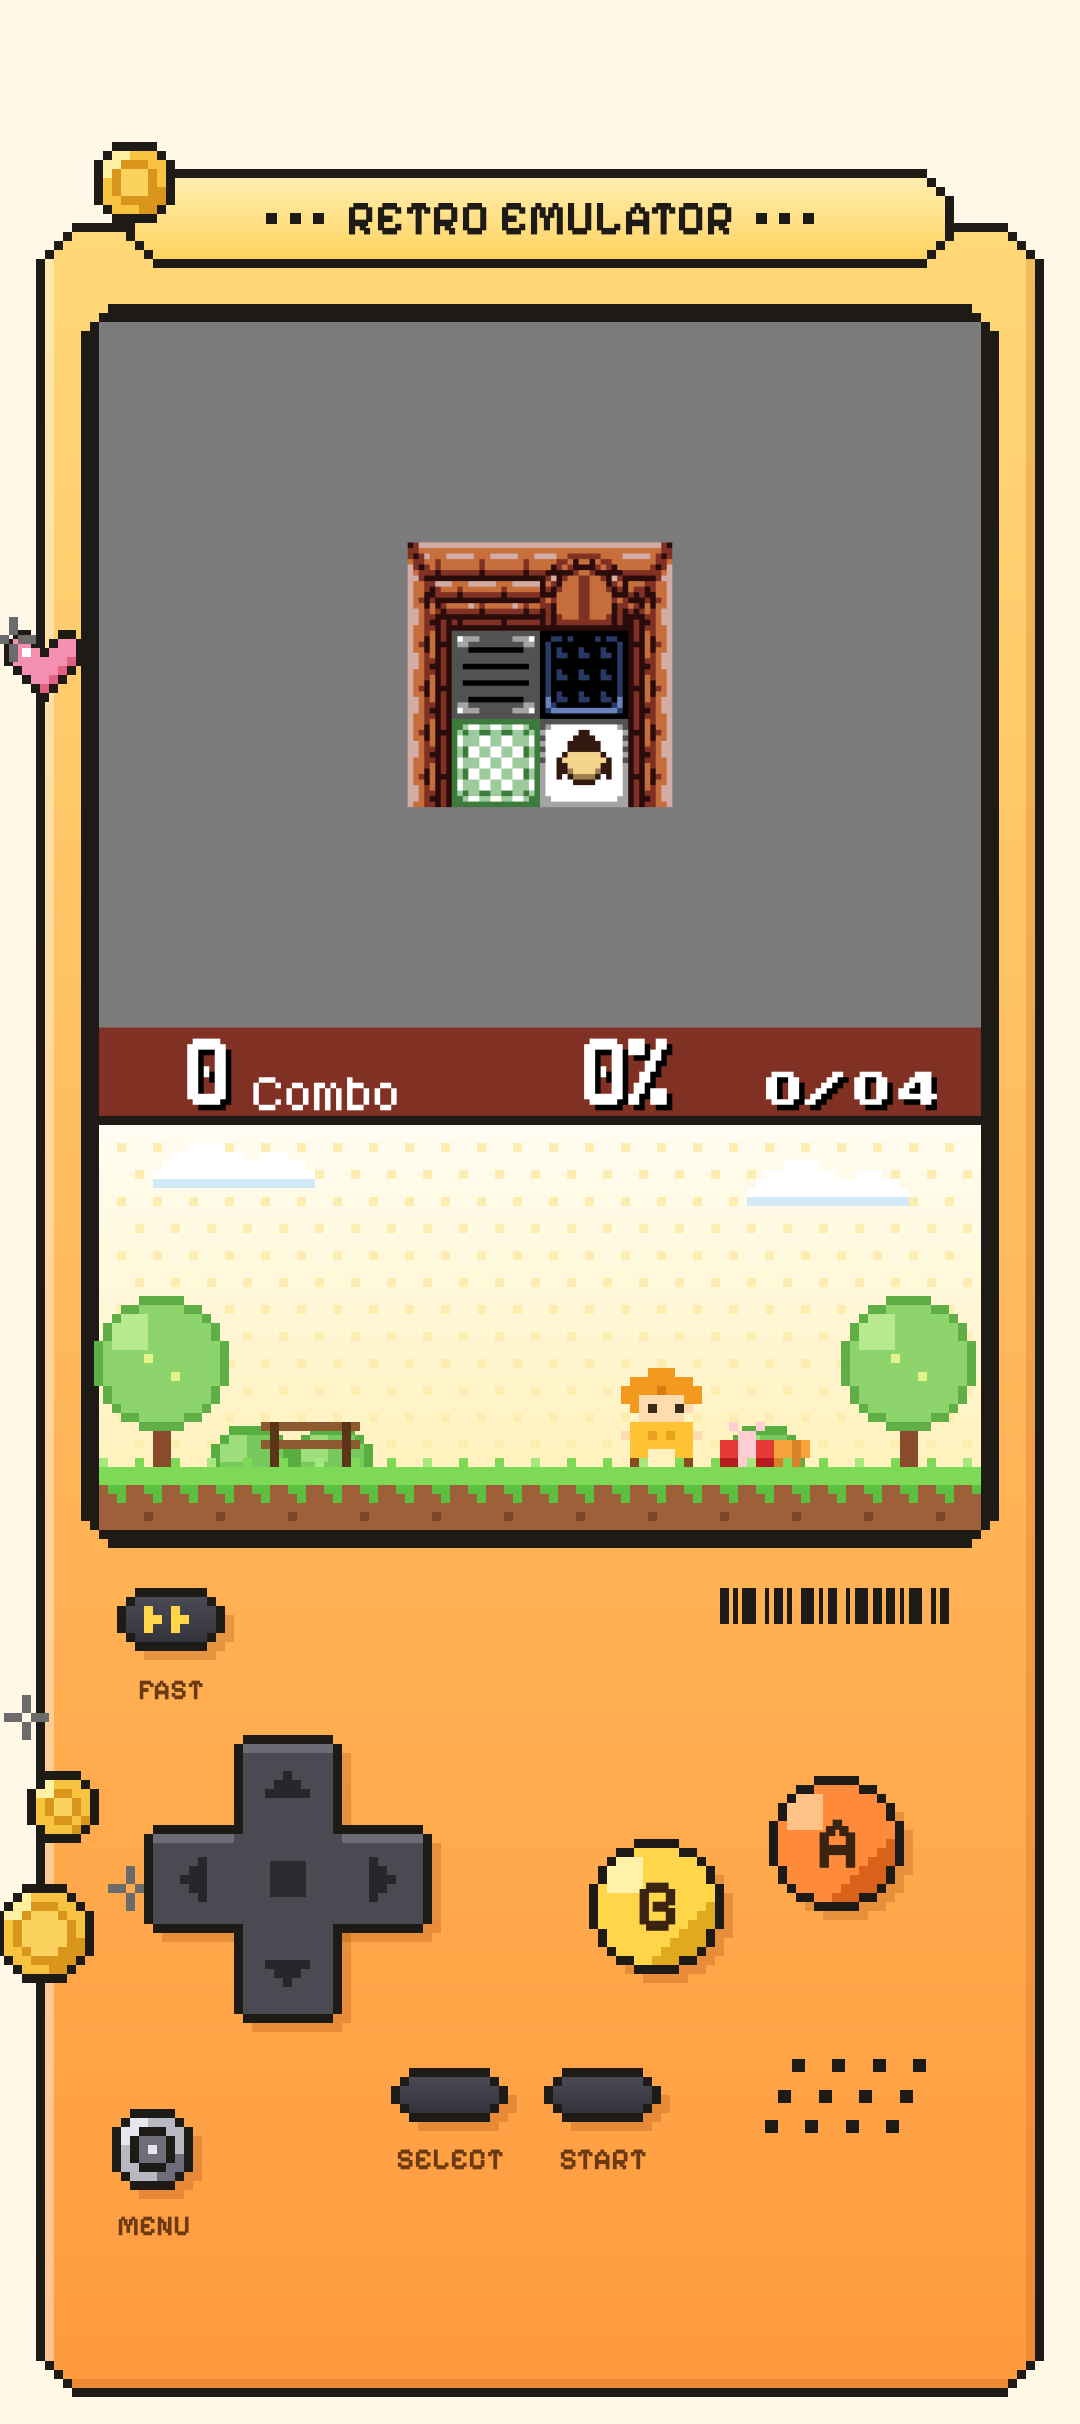
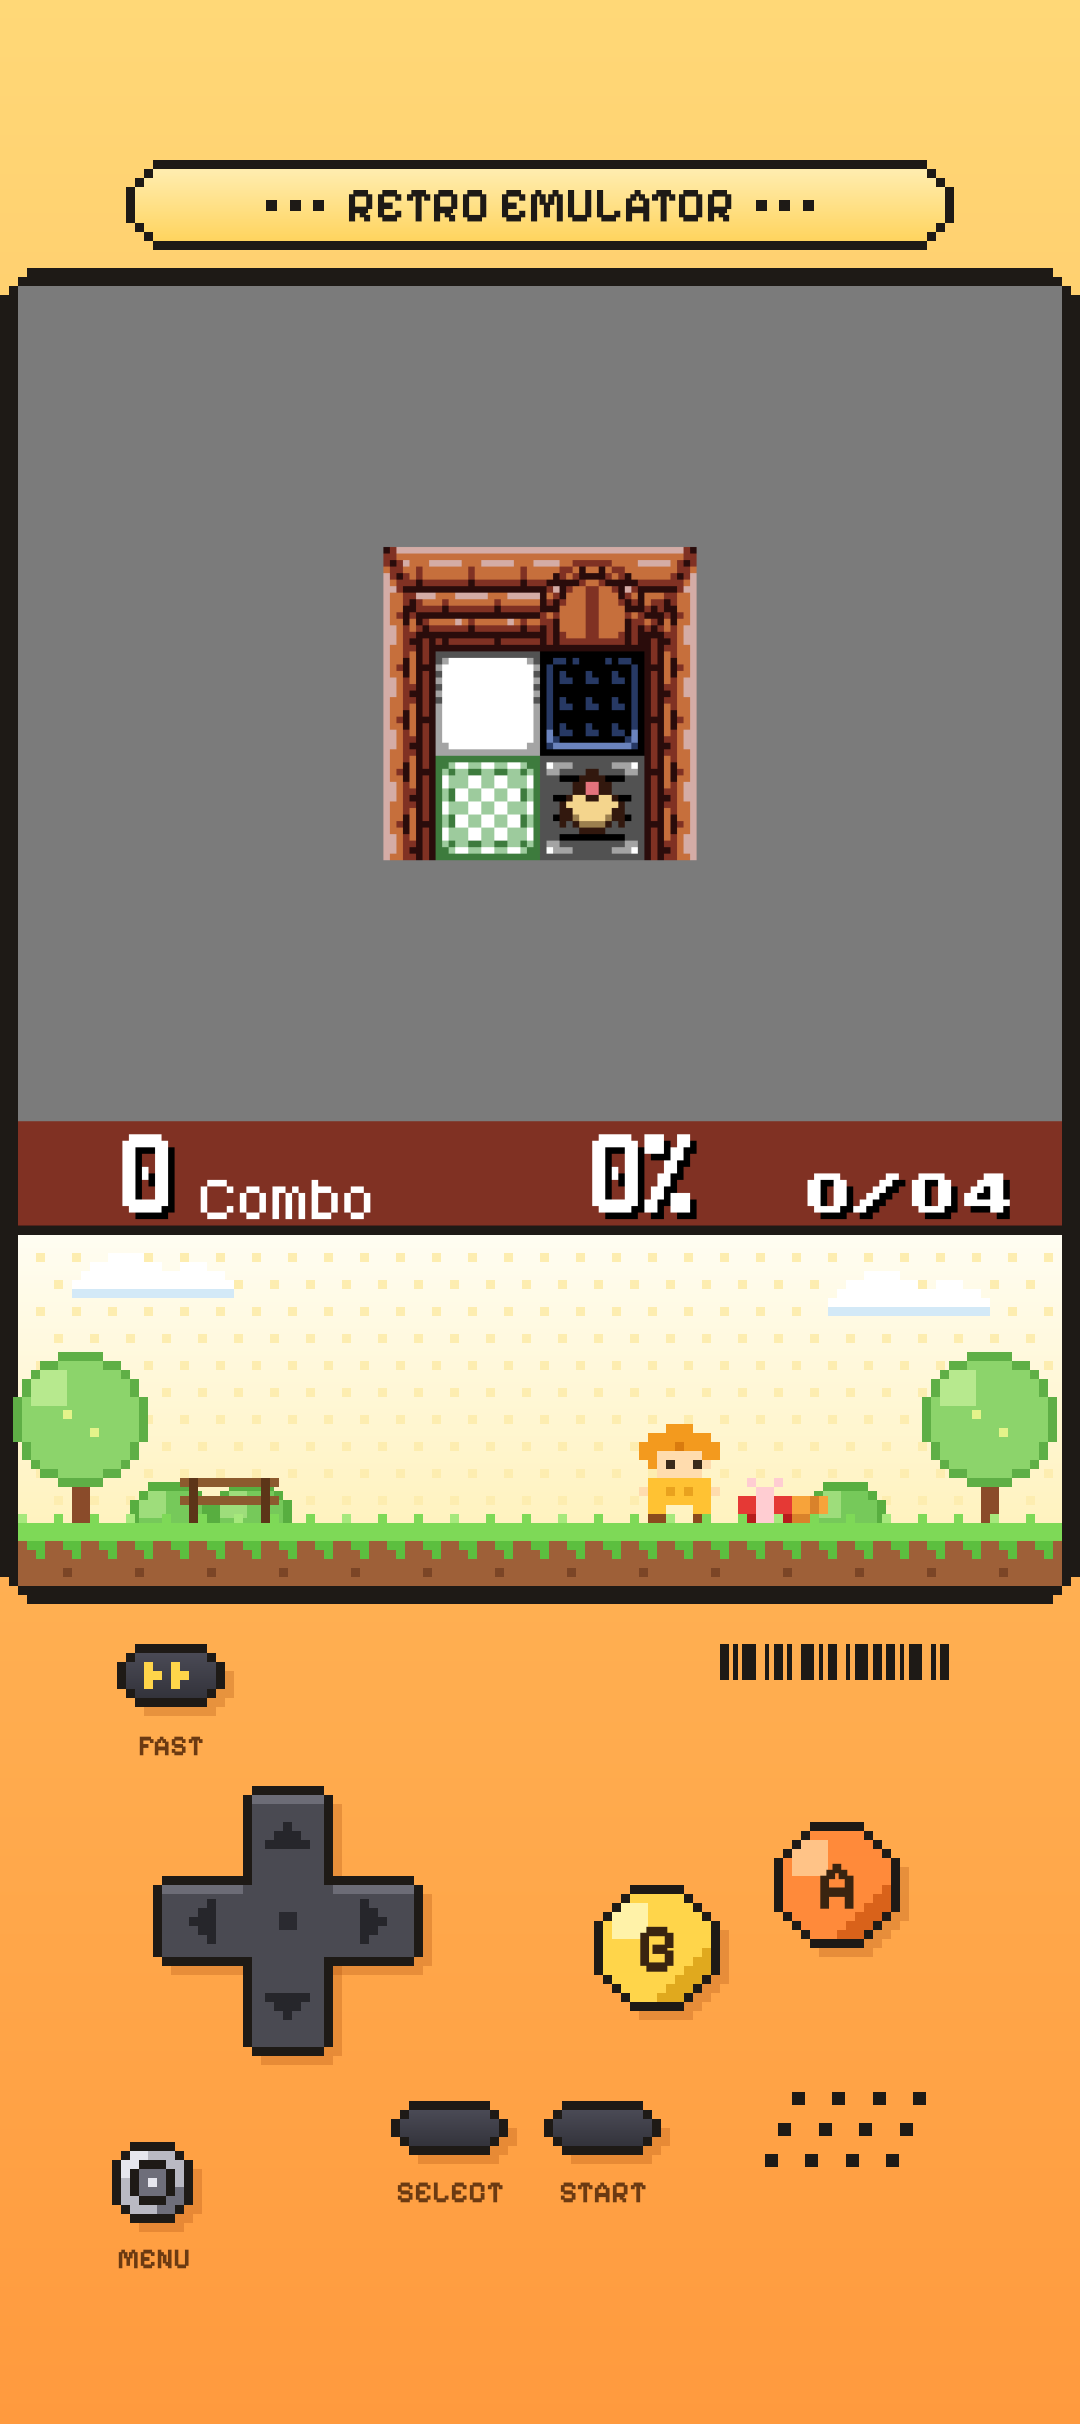
Full-screen handheld layout with a bigger picture (1.3.1)
The handheld body now fills the whole screen. The screen frame spans the
full width in portrait and the full height in landscape, so games are
drawn about 18% larger in portrait and up to 45% larger in landscape.
The coin, heart and sparkle decorations are removed, and the README
screenshots show the new layout.

diff --git a/app/src/main/java/com/retroemulator/gb/ui/ConsoleLayout.kt b/app/src/main/java/com/retroemulator/gb/ui/ConsoleLayout.kt
@@ -10,8 +10,10 @@ import kotlin.math.min
 /**
  * Geometry of the on-screen handheld, shared by the skin, the game view and the controls.
  *
- * Everything is designed on a grid of "art pixels" of [u] screen pixels: portrait layouts are 120
- * units wide, landscape layouts 100 units tall. [u] is an integer so the pixel art stays crisp.
+ * The handheld's body fills the whole screen, and the screen frame takes all the width (portrait) or
+ * height (landscape) it can. Everything is placed on a grid of "art pixels" of [u] screen pixels:
+ * portrait layouts are 120 units wide, landscape layouts at least 100 units tall. [u] is an integer
+ * so the pixel art stays crisp.
  */
 class ConsoleLayout {
     var valid = false
@@ -51,9 +53,6 @@ class ConsoleLayout {
     val shoulderR = RectF()
     val speaker = RectF()
 
-    class Decoration(val kind: Int, val x: Float, val y: Float, val size: Int)
-    val decorations = ArrayList<Decoration>()
-
     private fun px(x: Float) = ox + x * u
     private fun py(y: Float) = oy + y * u
     private fun rectU(out: RectF, l: Float, t: Float, r: Float, b: Float) = out.set(px(l), py(t), px(r), py(b))
@@ -67,10 +66,10 @@ class ConsoleLayout {
         srcW: Int = 160, srcH: Int = 144, shoulders: Boolean = false,
     ) {
         if (width <= 0 || height <= 0) return
-        decorations.clear()
         aspect = srcH.toFloat() / srcW
         shoulderL.setEmpty()
         shoulderR.setEmpty()
+        body.set(0f, 0f, width.toFloat(), height.toFloat())
         landscape = width > height * 1.25f
         if (landscape) computeLandscape(width, height, safe, shoulders) else computePortrait(width, height, safe, shoulders)
 
@@ -93,30 +92,35 @@ class ConsoleLayout {
         ox = floor((width - 120f * u) / 2f)
         oy = 0f
         val units = height / u
-        val top = safe.top / u + 3f
-        val bottom = units - safe.bottom / u - 3f
+        val top = safe.top / u + 2f
+        val bottom = units - safe.bottom / u - 2f
         val border = 2f
-        val frameTop = top + 15f
-        val controlsMin = 82f
-        val sceneMin = 12f
-        val sceneMax = 46f
+        val frameTop = top + 12f
+        val controlsMin = 80f
+        val sceneMax = 40f
 
-        var lcdW = 98f
+        // The screen frame spans the full width; the picture only shrinks if the controls need room.
+        var lcdW = 120f - 2 * border
         var lcdH = lcdW * aspect
-        val avail = bottom - frameTop - 2 * border - 5f
-        if (avail - lcdH - sceneMin < controlsMin) {
-            lcdH = max(40f, avail - sceneMin - controlsMin)
+        val avail = bottom - frameTop - 2 * border - 3f
+        if (avail - lcdH < controlsMin) {
+            lcdH = max(40f, avail - controlsMin)
             lcdW = lcdH / aspect
         }
-        val sceneH = (avail - lcdH - controlsMin).coerceIn(sceneMin, sceneMax)
+        // Leftover height goes to the park scene under the picture, if there's enough for it.
+        var sceneH = min(avail - lcdH - controlsMin, sceneMax)
+        if (sceneH < 12f) sceneH = 0f
         val controlsH = max(avail - lcdH - sceneH, 60f)
 
-        rectU(body, 4f, top + 6f, 116f, bottom)
-        rectU(tab, 14f, top, 106f, top + 11f)
+        rectU(tab, 14f, top, 106f, top + 10f)
         val half = lcdW / 2f
         rectU(frame, 60f - half - border, frameTop, 60f + half + border, frameTop + 2 * border + lcdH + sceneH)
         rectU(gameArea, 60f - half, frameTop + border, 60f + half, frameTop + border + lcdH)
-        rectU(scene, 60f - half, frameTop + border + lcdH, 60f + half, frameTop + border + lcdH + sceneH)
+        if (sceneH > 0f) {
+            rectU(scene, 60f - half, frameTop + border + lcdH, 60f + half, frameTop + border + lcdH + sceneH)
+        } else {
+            scene.setEmpty()
+        }
 
         // Controls, laid out like the reference handheld: d-pad left, B/A right, pills between.
         val cTop = frameTop + 2 * border + lcdH + sceneH + 3f
@@ -142,30 +146,21 @@ class ConsoleLayout {
             pointU(fastForward, 60f, cTop + 4.5f)
             barcode.setEmpty()
         }
-
-        val frameMidY = frameTop + (lcdH + sceneH) * 0.3f
-        decorations += Decoration(COIN, px(15f), py(top + 1.5f), 9)
-        decorations += Decoration(HEART, px(5f), py(frameMidY), 1)
-        decorations += Decoration(SPARKLE, px(1.5f), py(frameMidY - 3f), 1)
-        decorations += Decoration(COIN, px(5f), py(rowY + 6f), 11)
-        decorations += Decoration(COIN, px(7f), py(rowY - 8f), 8)
-        decorations += Decoration(SPARKLE, px(3f), py(rowY - 18f), 1)
-        decorations += Decoration(SPARKLE, px(14.5f), py(rowY + 1f), 1)
     }
 
     private fun computeLandscape(width: Int, height: Int, safe: Rect, shoulders: Boolean) {
         u = max(2f, floor(height / 100f))
         ox = 0f
-        oy = floor((height - 100f * u) / 2f)
-        val units = width / u
-        val left = safe.left / u + 3f
-        val right = units - safe.right / u - 3f
-        val top = 4f + safe.top / u
-        val bottom = 96f - safe.bottom / u
+        oy = 0f
+        val left = safe.left / u + 2f
+        val right = width / u - safe.right / u - 2f
+        val top = safe.top / u + 2f
+        val bottom = height / u - safe.bottom / u - 2f
         val border = 2f
-        val zoneMin = 46f
+        val zoneMin = 40f
 
-        var lcdH = (bottom - top) - 2 * border - 8f
+        // The screen frame spans the full height unless the side controls need more width.
+        var lcdH = (bottom - top) - 2 * border
         var lcdW = lcdH / aspect
         val maxW = (right - left) - 2 * zoneMin - 2 * border
         if (lcdW > maxW) {
@@ -175,7 +170,6 @@ class ConsoleLayout {
         val mid = (left + right) / 2f
         val cy = (top + bottom) / 2f
 
-        rectU(body, left, top, right, bottom)
         tab.setEmpty()
         scene.setEmpty()
         rectU(frame, mid - lcdW / 2f - border, cy - lcdH / 2f - border, mid + lcdW / 2f + border, cy + lcdH / 2f + border)
@@ -200,18 +194,6 @@ class ConsoleLayout {
             rectU(shoulderL, zoneL - 11f, top + 19f, zoneL + 11f, top + 26f)
             rectU(shoulderR, zoneR - 11f, top + 19f, zoneR + 11f, top + 26f)
         }
-        rectU(speaker, right - 25f, bottom - 26f, right - 7f, bottom - 18f)
-
-        decorations += Decoration(COIN, px(left + 1f), py(bottom - 6f), 10)
-        decorations += Decoration(COIN, px(left + 5f), py(bottom - 15f), 7)
-        decorations += Decoration(SPARKLE, px(left + 12f), py(bottom - 9f), 1)
-        decorations += Decoration(HEART, px(right - 1f), py(top + 26f), 1)
-        decorations += Decoration(SPARKLE, px(right - 0.5f), py(top + 20f), 1)
-    }
-
-    companion object {
-        const val COIN = 0
-        const val HEART = 1
-        const val SPARKLE = 2
+        rectU(speaker, right - 25f, bottom - 33f, right - 7f, bottom - 25f)
     }
 }

diff --git a/app/src/main/java/com/retroemulator/gb/ui/ConsoleSkinView.kt b/app/src/main/java/com/retroemulator/gb/ui/ConsoleSkinView.kt
@@ -11,7 +11,7 @@ import com.retroemulator.gb.ui.pixel.PixelPainter.Companion.INK
 import kotlin.math.max
 import kotlin.math.min
 
-/** Static artwork of the handheld: body, name tab, screen frame, scenery and decorations. */
+/** Static artwork of the handheld: body, name tab, screen frame and scenery. */
 class ConsoleSkinView(context: Context) : View(context) {
     private val painter = PixelPainter()
     private val labelPaint = Paint(Paint.ANTI_ALIAS_FLAG).apply {
@@ -38,22 +38,12 @@ class ConsoleSkinView(context: Context) : View(context) {
         if (!l.scene.isEmpty) drawScene(canvas, l, u)
         if (!l.barcode.isEmpty) drawBarcode(canvas, l, u)
         if (!l.speaker.isEmpty) drawSpeaker(canvas, l, u)
-        for (d in l.decorations) {
-            when (d.kind) {
-                ConsoleLayout.COIN -> drawCoin(canvas, d.x, d.y, d.size, u)
-                ConsoleLayout.HEART -> painter.sprite(canvas, HEART, PALETTE, d.x - 4.5f * u, d.y - 4f * u, u)
-                ConsoleLayout.SPARKLE -> painter.sprite(canvas, SPARKLE, PALETTE, d.x - 2.5f * u, d.y - 2.5f * u, u)
-            }
-        }
     }
 
+    /** The body fills the whole screen edge to edge, so it has no outline or corners of its own. */
     private fun drawBody(canvas: Canvas, l: ConsoleLayout, u: Float) {
         val b = l.body
-        painter.box(canvas, b.left, b.top, b.right, b.bottom, u, 4, BODY_TOP, BODY_BOTTOM)
-        // Bevel: light left edge, darker right and bottom edges.
-        painter.rect(canvas, b.left + u, b.top + 4 * u, b.left + 2 * u, b.bottom - 4 * u, BODY_LIGHT)
-        painter.rect(canvas, b.right - 2 * u, b.top + 4 * u, b.right - u, b.bottom - 4 * u, BODY_DARK)
-        painter.rect(canvas, b.left + 4 * u, b.bottom - 2 * u, b.right - 4 * u, b.bottom - u, BODY_DARK)
+        painter.box(canvas, b.left, b.top, b.right, b.bottom, u, 0, BODY_TOP, BODY_BOTTOM, outlineUnits = 0)
     }
 
     private fun drawTab(canvas: Canvas, l: ConsoleLayout, u: Float) {
@@ -195,17 +185,10 @@ class ConsoleSkinView(context: Context) : View(context) {
         }
     }
 
-    private fun drawCoin(canvas: Canvas, x: Float, y: Float, size: Int, u: Float) {
-        painter.disc(canvas, x, y, size, u, COIN, INK, COIN_LIGHT, COIN_DARK)
-        if (size >= 8) painter.disc(canvas, x, y, size - 4, u, COIN_INNER, COIN_DARK)
-    }
-
     companion object {
         private const val BACKGROUND = 0xFFFFF8E6.toInt()
         private const val BODY_TOP = 0xFFFFD877.toInt()
         private const val BODY_BOTTOM = 0xFFFF9A3E.toInt()
-        private const val BODY_LIGHT = 0x66FFFFFF
-        private const val BODY_DARK = 0x33B4460A
         private const val TAB_TOP = 0xFFFFEDB0.toInt()
         private const val TAB_BOTTOM = 0xFFFFD45E.toInt()
         private const val LCD = 0xFF101010.toInt()
@@ -227,10 +210,6 @@ class ConsoleSkinView(context: Context) : View(context) {
         private const val BUSH_LIGHT = 0xFF9EDD7B.toInt()
         private const val WOOD = 0xFF8C5A2E.toInt()
         private const val WOOD_DARK = 0xFF5C3518.toInt()
-        private const val COIN = 0xFFF8C33E.toInt()
-        private const val COIN_LIGHT = 0xFFFFF0A2.toInt()
-        private const val COIN_DARK = 0xFFD9961A.toInt()
-        private const val COIN_INNER = 0xFFFBD25E.toInt()
 
         private val BARCODE = intArrayOf(2, 1, 1, 1, 3, 2, 1, 1, 2, 1, 1, 2, 3, 1, 1, 1, 2, 2, 1, 1, 3, 1, 2, 1)
 
@@ -248,12 +227,8 @@ class ConsoleSkinView(context: Context) : View(context) {
             'P' to 0xFFFFCDD2.toInt(), // ribbon
             'G' to 0xFFF7A33A.toInt(), // small gift
             'g' to 0xFFD9822B.toInt(),
-            'H' to 0xFFF48FB1.toInt(), // heart
-            'h' to 0xFFE0607F.toInt(),
-            'W' to 0xFFFFFFFF.toInt(),
             'C' to 0xFFFFFFFF.toInt(), // cloud
             'c' to 0xFFD3E9F7.toInt(),
-            '*' to 0xFF6B6B6B.toInt(), // sparkle
         )
 
         val KID = arrayOf(
@@ -280,23 +255,6 @@ class ConsoleSkinView(context: Context) : View(context) {
             "GGgG",
             "GGgG",
             "ggg.",
-        )
-        val HEART = arrayOf(
-            ".KK...KK.",
-            "KHHK.KHHK",
-            "KHWHKHHHK",
-            "KHHHHHHhK",
-            ".KHHHHhK.",
-            "..KHHhK..",
-            "...KhK...",
-            "....K....",
-        )
-        val SPARKLE = arrayOf(
-            "..*..",
-            "..*..",
-            "**.**",
-            "..*..",
-            "..*..",
         )
         val CLOUD = arrayOf(
             "....CCCC..........",

diff --git a/README.md b/README.md
@@ -1,6 +1,6 @@
 # Retro Emulator
 
-A fast, accurate **Game Boy, Game Boy Color and Game Boy Advance emulator for Android**, written from scratch in Kotlin with no third-party dependencies. Games play inside a pixel-art handheld: an orange console with a chunky ink outline, a little park scene under the screen, coins and a heart.
+A fast, accurate **Game Boy, Game Boy Color and Game Boy Advance emulator for Android**, written from scratch in Kotlin with no third-party dependencies. Games play inside a full-screen pixel-art handheld: an orange console whose screen takes all the width it can, with a little park scene under the picture.
 
 <p align="center">
   <img src="docs/screenshots/game.png" width="24%" alt="Playing µCity on the pixel-art handheld" />
